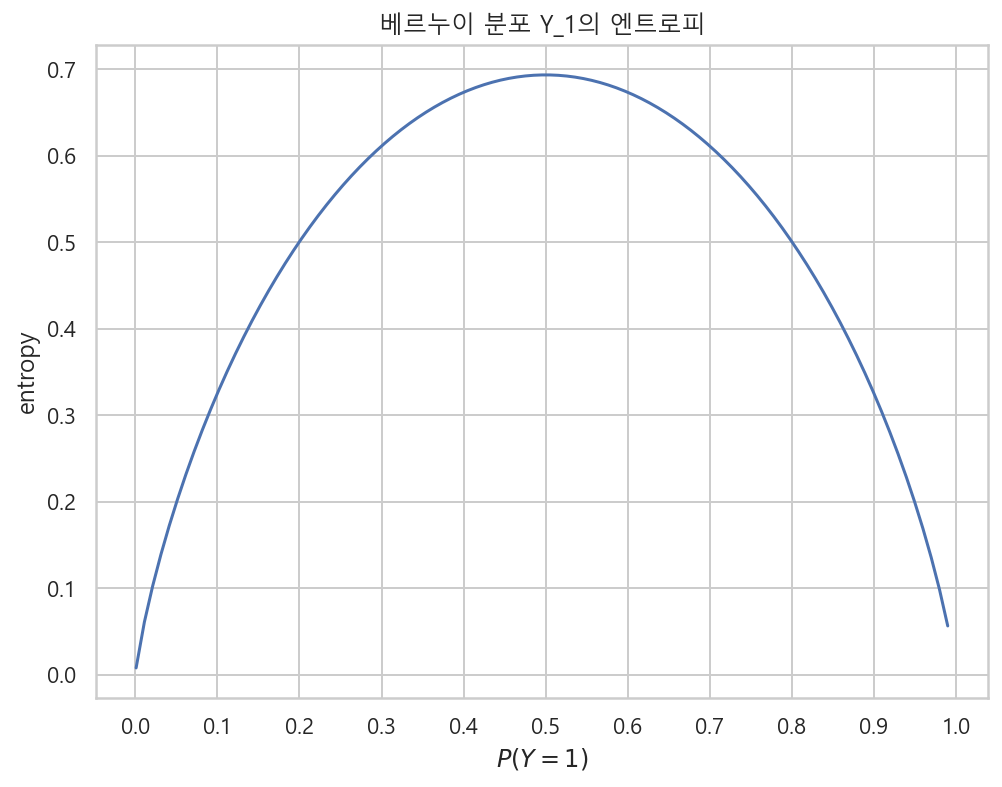
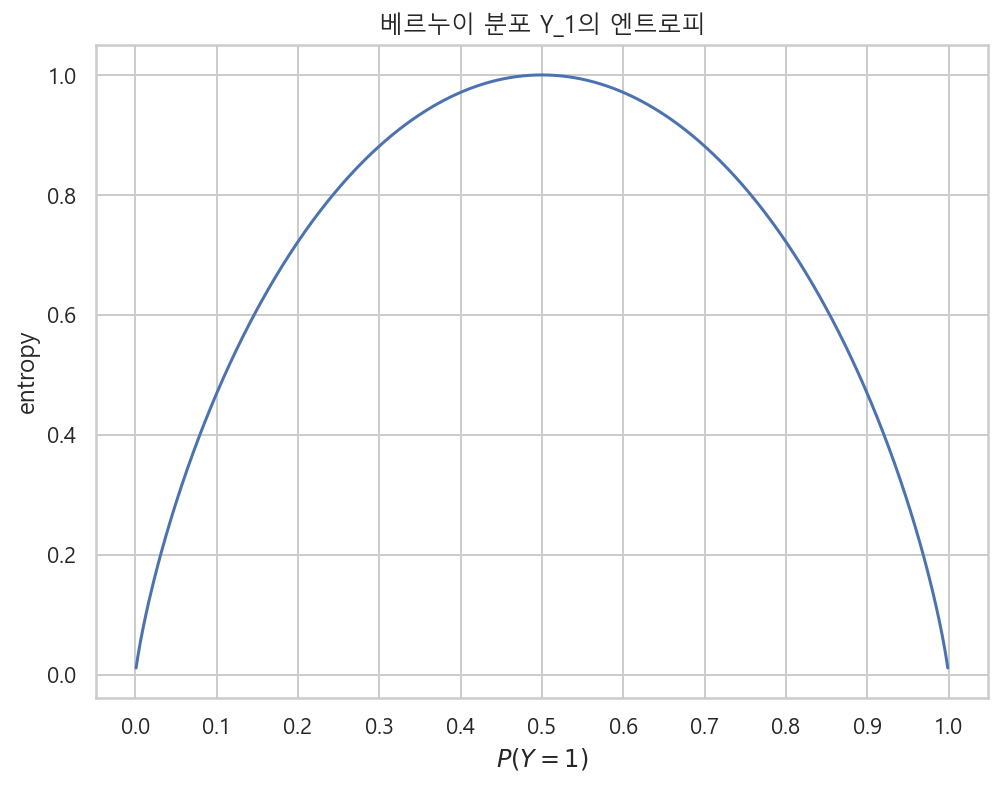
update

diff --git a/12_entropy.md b/12_entropy.md
@@ -55,6 +55,8 @@
 - $\text{H}[Y_3] = - 1 log_2 1 - 0 log_2 0 = 0$
 
 ### [python] Y_1, Y_2, Y_3의 확률분포
+- 엔트로피의 크기 순서 : 확률이 골고루 분포되어있으면 엔트로피가 크고, 확률이 한쪽에 몰려있으면 엔트로피가 작다.
+    - Y_1 > Y_2 > Y_3
 
 ```python
 %matplotlib inline
@@ -120,19 +122,19 @@ y_3
     - 즉 P(Y=1) = 0.3 이면, P(Y=0) = 0.7 이다.
 
 ```python
-# 엔트로피 계산 함수
 def entropy(x) :
-    return - x * np.log(x) - (1-x) * np.log(1-x)
+    a = x
+    b = 1-x
+    return - a * np.log2(a) - (b) * np.log2(b)
 
-# 0.001부터 1까지 P(Y=1)의 값의 범위
-xx = np.linspace(0.001, 1, 100)
+xx = np.linspace(0.001, 1-0.001, 1000)
 
 plt.figure(figsize=(8, 6))
-plt.plot(xx, entropy(xx))
-plt.title("베르누이 분포 Y_1의 엔트로피")
+plt.plot(xx, entropy(xx), 'b-')
 plt.xticks(np.arange(0, 11)/10)
 plt.xlabel("$P(Y=1)$")
 plt.ylabel("entropy")
+plt.title("베르누이 분포 Y_1의 엔트로피")
 plt.show() ;
 ```
 
@@ -371,6 +373,7 @@ len(encoded_doc)
 
 #### 인코딩한 문서의 문자별 빈도수를 분포로 확인
 - A > B > C = D 의 순으로 사용 횟수가 다르다.
+- sns.countplot(list(doc), order="ABCD") : list의 원소를 order의 인수로 입력하면 자동으로 count해서 bar로 표현해준다.
 
 ```python
 plt.figure(figsize=(8, 6))
@@ -434,5 +437,4 @@ sp.stats.entropy(p_docs, base=2)
 >>>
 
 2.0
-```
-
+``
